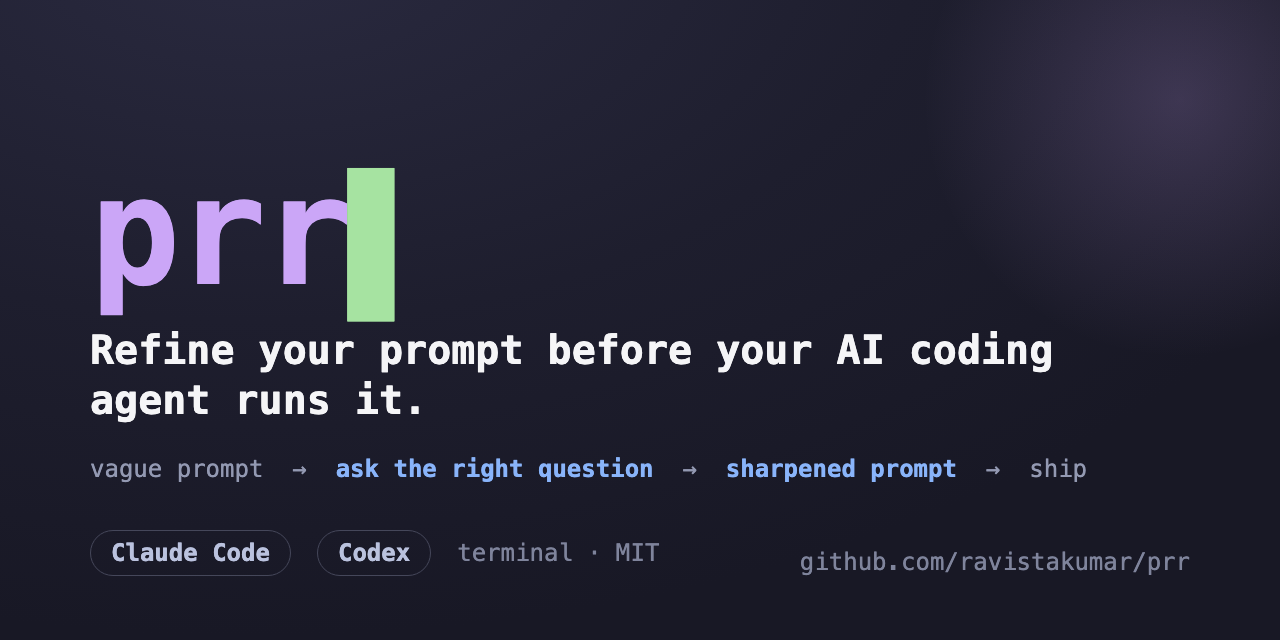
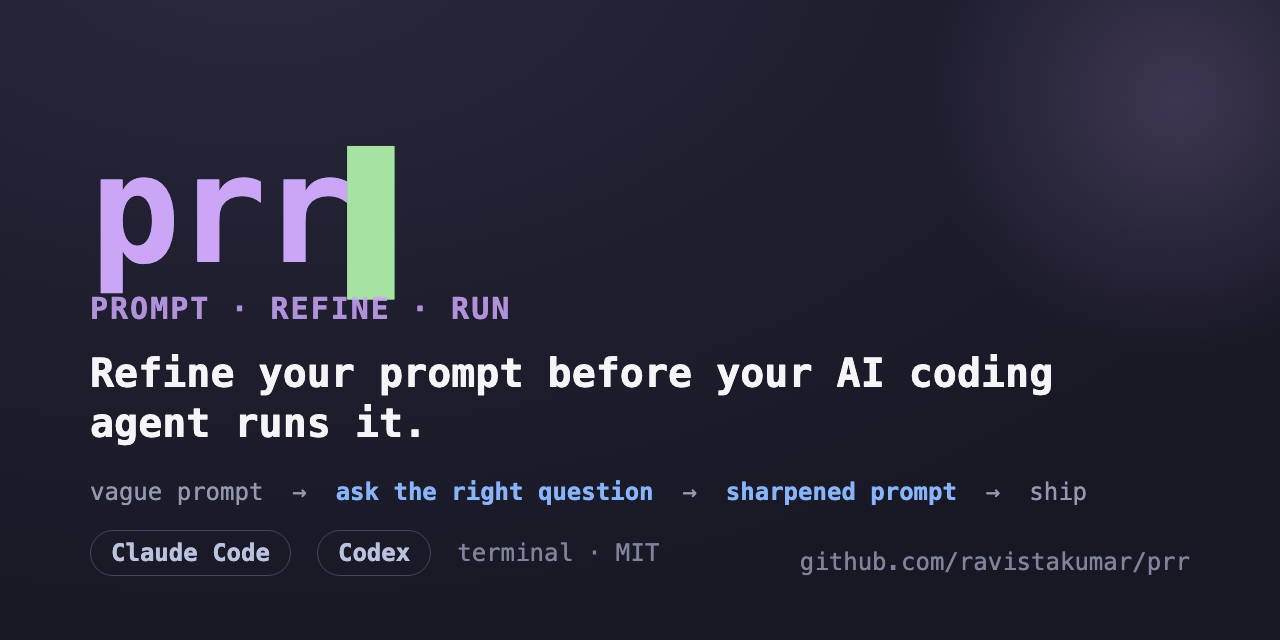
Add Prompt Refine & Run subtitle to social card

diff --git a/docs/demo/social-card.html b/docs/demo/social-card.html
@@ -25,7 +25,8 @@
       }
       .wordmark { font-size: 150px; font-weight: 800; letter-spacing: -4px; line-height: 1; color: #cba6f7; }
       .wordmark .cursor { color: #a6e3a1; }
-      .tagline { font-size: 40px; font-weight: 700; margin-top: 18px; color: #f5f5f7; max-width: 1000px; line-height: 1.25; }
+      .subtitle { font-size: 30px; font-weight: 700; margin-top: 6px; color: #cba6f7; opacity: 0.85; letter-spacing: 2px; text-transform: uppercase; }
+      .tagline { font-size: 40px; font-weight: 700; margin-top: 22px; color: #f5f5f7; max-width: 1000px; line-height: 1.25; }
       .flow { font-size: 24px; margin-top: 30px; color: #9399b2; }
       .flow b { color: #89b4fa; font-weight: 700; }
       .footer {
@@ -39,6 +40,7 @@
   <body>
     <div class="glow"></div>
     <div class="wordmark">prr<span class="cursor">▌</span></div>
+    <div class="subtitle">Prompt&nbsp;&middot;&nbsp;Refine&nbsp;&middot;&nbsp;Run</div>
     <div class="tagline">Refine your prompt before your AI coding agent runs it.</div>
     <div class="flow">vague prompt &nbsp;→&nbsp; <b>ask the right question</b> &nbsp;→&nbsp; <b>sharpened prompt</b> &nbsp;→&nbsp; ship</div>
     <div class="footer">